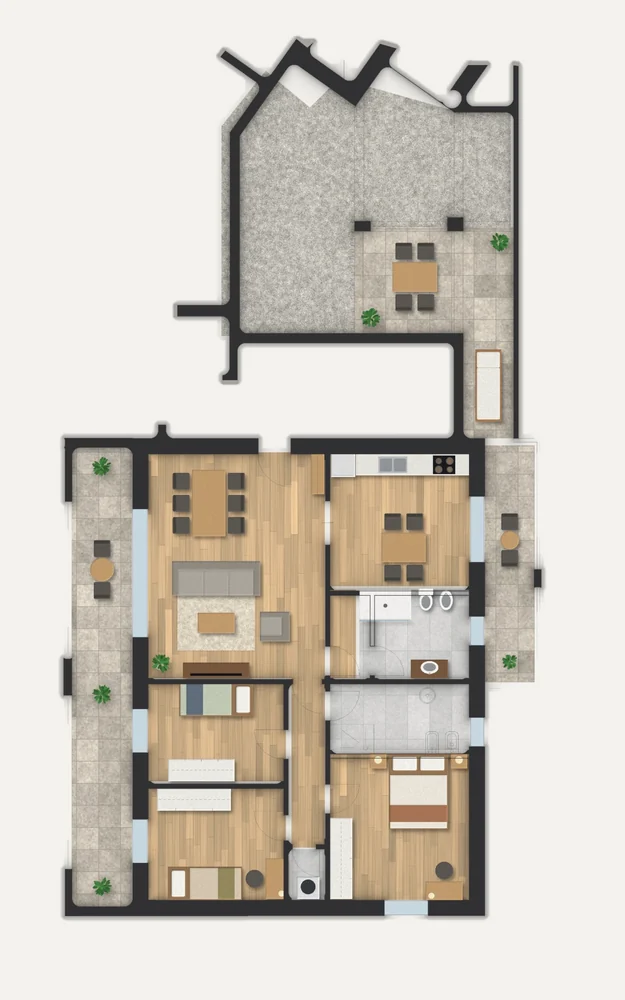
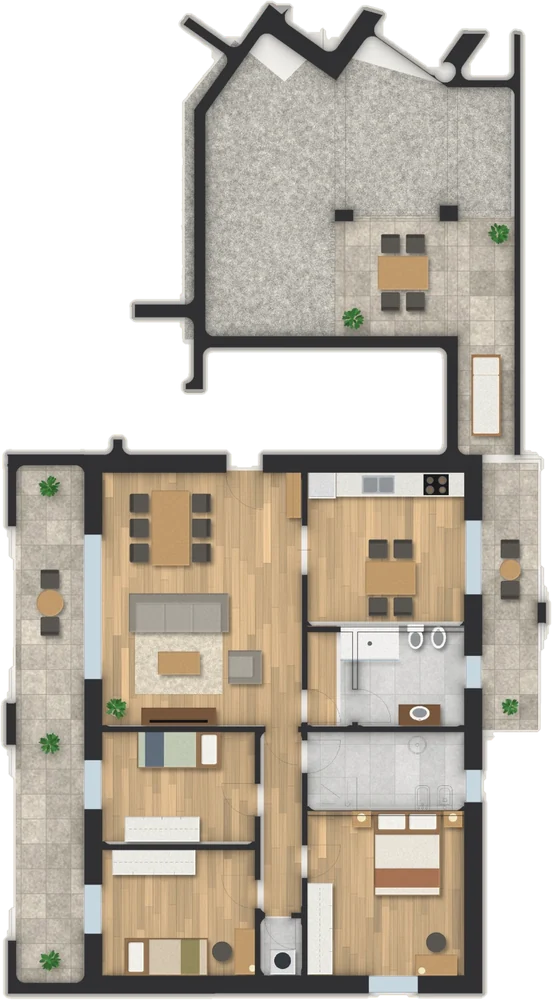
Planimetrie ritagliate su tavola tecnica scura + nuova pianta Villa C
- Pianta Villa C aggiornata (2 posti auto)
- Tutte le planimetrie senza foglio bianco: sfondo trasparente, bordo sottile color carta, ombra morbida spostata in basso
- Vista Planimetria su fondo scuro con griglia tecnica che sfuma ai bordi
- Ingresso morbido della pianta al passaggio Foto → Planimetria

Claude-Session: https://claude.ai/code/session_01R6xdRoKJ6ZxDiY1moh1f7c

diff --git a/villa-c.html b/villa-c.html
@@ -61,14 +61,22 @@ nav.scrolled{background:rgba(8,8,8,.74);backdrop-filter:blur(16px);-webkit-backd
 .slide.on img{animation:kb 7s ease-out forwards;}
 @keyframes kb{to{transform:scale(1);}}
 .plan-view{position:absolute;inset:0;display:flex;align-items:center;justify-content:center;padding:clamp(80px,12vh,130px) 6vw clamp(40px,8vh,80px);
-  background:#0a0a0a;opacity:0;pointer-events:none;transition:opacity .6s var(--e);}
+  background:radial-gradient(60% 55% at 50% 56%,rgba(157,192,170,.06),transparent 72%),#0c0c0b;opacity:0;pointer-events:none;transition:opacity .6s var(--e);}
+/* griglia da tavola tecnica, sfuma verso i bordi */
+.plan-view::before{content:'';position:absolute;inset:0;pointer-events:none;
+  background-image:linear-gradient(rgba(240,236,228,.045) 1px,transparent 1px),linear-gradient(90deg,rgba(240,236,228,.045) 1px,transparent 1px);background-size:44px 44px;background-position:center;
+  -webkit-mask-image:radial-gradient(ellipse 72% 66% at 50% 56%,#000 25%,transparent 78%);mask-image:radial-gradient(ellipse 72% 66% at 50% 56%,#000 25%,transparent 78%);}
 .ustage.show-plan .plan-view{opacity:1;pointer-events:auto;}
 .ustage.show-plan .media,.ustage.show-plan .hero-content,.ustage.show-plan .sl-ui,.ustage.show-plan .sl-dots,.ustage.show-plan .sl-count{opacity:0;pointer-events:none;}
 .plan-view{gap:clamp(14px,3vw,44px);justify-content:safe center;padding-top:clamp(140px,17vh,160px);}
-.plan-fig{height:100%;flex:0 1 auto;min-width:0;display:flex;flex-direction:column;align-items:center;gap:14px;}
+.plan-fig{position:relative;height:100%;flex:0 1 auto;min-width:0;display:flex;flex-direction:column;align-items:center;gap:14px;}
 .plan-fig a{height:calc(100% - 30px);max-width:100%;display:flex;justify-content:center;border-radius:6px;}
 .plan-fig a:focus-visible{outline:2px solid var(--accent);outline-offset:4px;}
-.plan-fig img{height:100%;width:auto;max-width:100%;object-fit:contain;filter:drop-shadow(0 22px 40px rgba(0,0,0,.6));cursor:zoom-in;}
+.plan-fig img{height:100%;width:auto;max-width:100%;object-fit:contain;cursor:zoom-in;
+  filter:drop-shadow(0 6px 8px rgba(0,0,0,.45)) drop-shadow(0 30px 38px rgba(0,0,0,.55));
+  transform:translateY(14px) scale(.97);transition:transform 1s var(--e-expo);}
+.ustage.show-plan .plan-fig img{transform:none;}
+.plan-fig:nth-child(2) img{transition-delay:.08s;}
 .plan-fig figcaption{font-size:11px;letter-spacing:.2em;text-transform:uppercase;color:var(--t2);}
 .ustage.show-plan .expand-hint{opacity:0;pointer-events:none;}
 @media(max-width:768px){.plan-view{overflow-x:auto;scroll-snap-type:x mandatory;padding-top:132px;padding-left:16px;padding-right:16px;}.plan-fig{flex:0 0 auto;max-width:100%;scroll-snap-align:center;}}
@@ -207,7 +215,7 @@ footer{background:#040404;padding:clamp(34px,5vh,52px) clamp(20px,5vw,60px);disp
 
 <header class="ustage" id="ustage">
   <div class="media" id="media"><div class="slide on" data-i="0"><img src="images/villa-c_30.webp" alt="Residenza Verdi 8, Villa C: render 1 di 20" loading="eager" decoding="async"></div><div class="slide" data-i="1"><img src="images/villa-c_1.webp" alt="Residenza Verdi 8, Villa C: render 2 di 20" loading="eager" decoding="async"></div><div class="slide" data-i="2"><img src="images/villa-c_2.webp" alt="Residenza Verdi 8, Villa C: render 3 di 20" loading="lazy" decoding="async"></div><div class="slide" data-i="3"><img src="images/villa-c_3.webp" alt="Residenza Verdi 8, Villa C: render 4 di 20" loading="lazy" decoding="async"></div><div class="slide" data-i="4"><img src="images/villa-c_4.webp" alt="Residenza Verdi 8, Villa C: render 5 di 20" loading="lazy" decoding="async"></div><div class="slide" data-i="5"><img src="images/villa-c_5.webp" alt="Residenza Verdi 8, Villa C: render 6 di 20" loading="lazy" decoding="async"></div><div class="slide" data-i="6"><img src="images/villa-c_6.webp" alt="Residenza Verdi 8, Villa C: render 7 di 20" loading="lazy" decoding="async"></div><div class="slide" data-i="7"><img src="images/villa-c_7.webp" alt="Residenza Verdi 8, Villa C: render 8 di 20" loading="lazy" decoding="async"></div><div class="slide" data-i="8"><img src="images/villa-c_8.webp" alt="Residenza Verdi 8, Villa C: render 9 di 20" loading="lazy" decoding="async"></div><div class="slide" data-i="9"><img src="images/villa-c_9.webp" alt="Residenza Verdi 8, Villa C: render 10 di 20" loading="lazy" decoding="async"></div><div class="slide" data-i="10"><img src="images/villa-c_10.webp" alt="Residenza Verdi 8, Villa C: render 11 di 20" loading="lazy" decoding="async"></div><div class="slide" data-i="11"><img src="images/villa-c_11.webp" alt="Residenza Verdi 8, Villa C: render 12 di 20" loading="lazy" decoding="async"></div><div class="slide" data-i="12"><img src="images/villa-c_12.webp" alt="Residenza Verdi 8, Villa C: render 13 di 20" loading="lazy" decoding="async"></div><div class="slide" data-i="13"><img src="images/villa-c_13.webp" alt="Residenza Verdi 8, Villa C: render 14 di 20" loading="lazy" decoding="async"></div><div class="slide" data-i="14"><img src="images/villa-c_14.webp" alt="Residenza Verdi 8, Villa C: render 15 di 20" loading="lazy" decoding="async"></div><div class="slide" data-i="15"><img src="images/villa-c_15.webp" alt="Residenza Verdi 8, Villa C: render 16 di 20" loading="lazy" decoding="async"></div><div class="slide" data-i="16"><img src="images/villa-c_16.webp" alt="Residenza Verdi 8, Villa C: render 17 di 20" loading="lazy" decoding="async"></div><div class="slide" data-i="17"><img src="images/villa-c_17.webp" alt="Residenza Verdi 8, Villa C: render 18 di 20" loading="lazy" decoding="async"></div><div class="slide" data-i="18"><img src="images/villa-c_18.webp" alt="Residenza Verdi 8, Villa C: render 19 di 20" loading="lazy" decoding="async"></div><div class="slide" data-i="19"><img src="images/villa-c_19.webp" alt="Residenza Verdi 8, Villa C: render 20 di 20" loading="lazy" decoding="async"></div></div>
-  <div class="plan-view"><figure class="plan-fig"><a href="images/pianta-villa-c.webp" target="_blank" rel="noopener" aria-label="Apri la planimetria piano terra a piena risoluzione"><img src="images/pianta-villa-c.webp" srcset="images/pianta-villa-c-1000.webp 1000w, images/pianta-villa-c.webp 941w" sizes="(max-width:768px) 90vw, 50vw" width="941" height="2000" alt="Planimetria Villa C, piano terra: soggiorno, cucina, tre camere, due bagni, giardini e posto auto" loading="lazy" decoding="async"></a><figcaption>Piano terra</figcaption></figure><figure class="plan-fig"><a href="images/pianta-villa-c-terrazzo.webp" target="_blank" rel="noopener" aria-label="Apri la planimetria terrazzo a piena risoluzione"><img src="images/pianta-villa-c-terrazzo.webp" srcset="images/pianta-villa-c-terrazzo-1000.webp 1000w, images/pianta-villa-c-terrazzo.webp 1204w" sizes="(max-width:768px) 90vw, 50vw" width="1204" height="1854" alt="Planimetria Villa C, terrazzo panoramico" loading="lazy" decoding="async"></a><figcaption>Terrazzo</figcaption></figure></div>
+  <div class="plan-view"><figure class="plan-fig"><a href="images/pianta-villa-c.webp" target="_blank" rel="noopener" aria-label="Apri la planimetria piano terra a piena risoluzione"><img src="images/pianta-villa-c.webp" srcset="images/pianta-villa-c-1000.webp 1000w, images/pianta-villa-c.webp 846w" sizes="(max-width:768px) 90vw, 50vw" width="846" height="1968" alt="Planimetria Villa C, piano terra: soggiorno, cucina, tre camere, due bagni, giardini e posto auto" loading="lazy" decoding="async"></a><figcaption>Piano terra</figcaption></figure><figure class="plan-fig"><a href="images/pianta-villa-c-terrazzo.webp" target="_blank" rel="noopener" aria-label="Apri la planimetria terrazzo a piena risoluzione"><img src="images/pianta-villa-c-terrazzo.webp" srcset="images/pianta-villa-c-terrazzo-1000.webp 1000w, images/pianta-villa-c-terrazzo.webp 961w" sizes="(max-width:768px) 90vw, 50vw" width="961" height="1539" alt="Planimetria Villa C, terrazzo panoramico" loading="lazy" decoding="async"></a><figcaption>Terrazzo</figcaption></figure></div>
   <div class="veil"></div>
 
   <div class="media-toggle" id="toggle">

diff --git a/app-a.html b/app-a.html
@@ -61,14 +61,22 @@ nav.scrolled{background:rgba(8,8,8,.74);backdrop-filter:blur(16px);-webkit-backd
 .slide.on img{animation:kb 7s ease-out forwards;}
 @keyframes kb{to{transform:scale(1);}}
 .plan-view{position:absolute;inset:0;display:flex;align-items:center;justify-content:center;padding:clamp(80px,12vh,130px) 6vw clamp(40px,8vh,80px);
-  background:#0a0a0a;opacity:0;pointer-events:none;transition:opacity .6s var(--e);}
+  background:radial-gradient(60% 55% at 50% 56%,rgba(157,192,170,.06),transparent 72%),#0c0c0b;opacity:0;pointer-events:none;transition:opacity .6s var(--e);}
+/* griglia da tavola tecnica, sfuma verso i bordi */
+.plan-view::before{content:'';position:absolute;inset:0;pointer-events:none;
+  background-image:linear-gradient(rgba(240,236,228,.045) 1px,transparent 1px),linear-gradient(90deg,rgba(240,236,228,.045) 1px,transparent 1px);background-size:44px 44px;background-position:center;
+  -webkit-mask-image:radial-gradient(ellipse 72% 66% at 50% 56%,#000 25%,transparent 78%);mask-image:radial-gradient(ellipse 72% 66% at 50% 56%,#000 25%,transparent 78%);}
 .ustage.show-plan .plan-view{opacity:1;pointer-events:auto;}
 .ustage.show-plan .media,.ustage.show-plan .hero-content,.ustage.show-plan .sl-ui,.ustage.show-plan .sl-dots,.ustage.show-plan .sl-count{opacity:0;pointer-events:none;}
 .plan-view{gap:clamp(14px,3vw,44px);justify-content:safe center;padding-top:clamp(140px,17vh,160px);}
-.plan-fig{height:100%;flex:0 1 auto;min-width:0;display:flex;flex-direction:column;align-items:center;gap:14px;}
+.plan-fig{position:relative;height:100%;flex:0 1 auto;min-width:0;display:flex;flex-direction:column;align-items:center;gap:14px;}
 .plan-fig a{height:calc(100% - 30px);max-width:100%;display:flex;justify-content:center;border-radius:6px;}
 .plan-fig a:focus-visible{outline:2px solid var(--accent);outline-offset:4px;}
-.plan-fig img{height:100%;width:auto;max-width:100%;object-fit:contain;filter:drop-shadow(0 22px 40px rgba(0,0,0,.6));cursor:zoom-in;}
+.plan-fig img{height:100%;width:auto;max-width:100%;object-fit:contain;cursor:zoom-in;
+  filter:drop-shadow(0 6px 8px rgba(0,0,0,.45)) drop-shadow(0 30px 38px rgba(0,0,0,.55));
+  transform:translateY(14px) scale(.97);transition:transform 1s var(--e-expo);}
+.ustage.show-plan .plan-fig img{transform:none;}
+.plan-fig:nth-child(2) img{transition-delay:.08s;}
 .plan-fig figcaption{font-size:11px;letter-spacing:.2em;text-transform:uppercase;color:var(--t2);}
 .ustage.show-plan .expand-hint{opacity:0;pointer-events:none;}
 @media(max-width:768px){.plan-view{overflow-x:auto;scroll-snap-type:x mandatory;padding-top:132px;padding-left:16px;padding-right:16px;}.plan-fig{flex:0 0 auto;max-width:100%;scroll-snap-align:center;}}
@@ -207,7 +215,7 @@ footer{background:#040404;padding:clamp(34px,5vh,52px) clamp(20px,5vw,60px);disp
 
 <header class="ustage" id="ustage">
   <div class="media" id="media"><div class="slide on" data-i="0"><img src="images/app-a_24.webp" alt="Residenza Verdi 8, App. A: render 1 di 20" loading="eager" decoding="async"></div><div class="slide" data-i="1"><img src="images/app-a_1.webp" alt="Residenza Verdi 8, App. A: render 2 di 20" loading="eager" decoding="async"></div><div class="slide" data-i="2"><img src="images/app-a_2.webp" alt="Residenza Verdi 8, App. A: render 3 di 20" loading="lazy" decoding="async"></div><div class="slide" data-i="3"><img src="images/app-a_3.webp" alt="Residenza Verdi 8, App. A: render 4 di 20" loading="lazy" decoding="async"></div><div class="slide" data-i="4"><img src="images/app-a_4.webp" alt="Residenza Verdi 8, App. A: render 5 di 20" loading="lazy" decoding="async"></div><div class="slide" data-i="5"><img src="images/app-a_5.webp" alt="Residenza Verdi 8, App. A: render 6 di 20" loading="lazy" decoding="async"></div><div class="slide" data-i="6"><img src="images/app-a_6.webp" alt="Residenza Verdi 8, App. A: render 7 di 20" loading="lazy" decoding="async"></div><div class="slide" data-i="7"><img src="images/app-a_7.webp" alt="Residenza Verdi 8, App. A: render 8 di 20" loading="lazy" decoding="async"></div><div class="slide" data-i="8"><img src="images/app-a_8.webp" alt="Residenza Verdi 8, App. A: render 9 di 20" loading="lazy" decoding="async"></div><div class="slide" data-i="9"><img src="images/app-a_9.webp" alt="Residenza Verdi 8, App. A: render 10 di 20" loading="lazy" decoding="async"></div><div class="slide" data-i="10"><img src="images/app-a_10.webp" alt="Residenza Verdi 8, App. A: render 11 di 20" loading="lazy" decoding="async"></div><div class="slide" data-i="11"><img src="images/app-a_11.webp" alt="Residenza Verdi 8, App. A: render 12 di 20" loading="lazy" decoding="async"></div><div class="slide" data-i="12"><img src="images/app-a_12.webp" alt="Residenza Verdi 8, App. A: render 13 di 20" loading="lazy" decoding="async"></div><div class="slide" data-i="13"><img src="images/app-a_13.webp" alt="Residenza Verdi 8, App. A: render 14 di 20" loading="lazy" decoding="async"></div><div class="slide" data-i="14"><img src="images/app-a_14.webp" alt="Residenza Verdi 8, App. A: render 15 di 20" loading="lazy" decoding="async"></div><div class="slide" data-i="15"><img src="images/app-a_15.webp" alt="Residenza Verdi 8, App. A: render 16 di 20" loading="lazy" decoding="async"></div><div class="slide" data-i="16"><img src="images/app-a_16.webp" alt="Residenza Verdi 8, App. A: render 17 di 20" loading="lazy" decoding="async"></div><div class="slide" data-i="17"><img src="images/app-a_17.webp" alt="Residenza Verdi 8, App. A: render 18 di 20" loading="lazy" decoding="async"></div><div class="slide" data-i="18"><img src="images/app-a_18.webp" alt="Residenza Verdi 8, App. A: render 19 di 20" loading="lazy" decoding="async"></div><div class="slide" data-i="19"><img src="images/app-a_19.webp" alt="Residenza Verdi 8, App. A: render 20 di 20" loading="lazy" decoding="async"></div></div>
-  <div class="plan-view"><figure class="plan-fig"><a href="images/pianta-app-a.webp" target="_blank" rel="noopener" aria-label="Apri la planimetria piano terra a piena risoluzione"><img src="images/pianta-app-a.webp" srcset="images/pianta-app-a-1000.webp 1000w, images/pianta-app-a.webp 1808w" sizes="(max-width:768px) 90vw, 50vw" width="1808" height="1972" alt="Planimetria App. A, piano terra: soggiorno, cucina abitabile, tre camere, due bagni, giardino privato e due posti auto" loading="lazy" decoding="async"></a><figcaption>Piano terra</figcaption></figure></div>
+  <div class="plan-view"><figure class="plan-fig"><a href="images/pianta-app-a.webp" target="_blank" rel="noopener" aria-label="Apri la planimetria piano terra a piena risoluzione"><img src="images/pianta-app-a.webp" srcset="images/pianta-app-a-1000.webp 1000w, images/pianta-app-a.webp 1565w" sizes="(max-width:768px) 90vw, 50vw" width="1565" height="1735" alt="Planimetria App. A, piano terra: soggiorno, cucina abitabile, tre camere, due bagni, giardino privato e due posti auto" loading="lazy" decoding="async"></a><figcaption>Piano terra</figcaption></figure></div>
   <div class="veil"></div>
 
   <div class="media-toggle" id="toggle">

diff --git a/attico.html b/attico.html
@@ -61,14 +61,22 @@ nav.scrolled{background:rgba(8,8,8,.74);backdrop-filter:blur(16px);-webkit-backd
 .slide.on img{animation:kb 7s ease-out forwards;}
 @keyframes kb{to{transform:scale(1);}}
 .plan-view{position:absolute;inset:0;display:flex;align-items:center;justify-content:center;padding:clamp(80px,12vh,130px) 6vw clamp(40px,8vh,80px);
-  background:#0a0a0a;opacity:0;pointer-events:none;transition:opacity .6s var(--e);}
+  background:radial-gradient(60% 55% at 50% 56%,rgba(157,192,170,.06),transparent 72%),#0c0c0b;opacity:0;pointer-events:none;transition:opacity .6s var(--e);}
+/* griglia da tavola tecnica, sfuma verso i bordi */
+.plan-view::before{content:'';position:absolute;inset:0;pointer-events:none;
+  background-image:linear-gradient(rgba(240,236,228,.045) 1px,transparent 1px),linear-gradient(90deg,rgba(240,236,228,.045) 1px,transparent 1px);background-size:44px 44px;background-position:center;
+  -webkit-mask-image:radial-gradient(ellipse 72% 66% at 50% 56%,#000 25%,transparent 78%);mask-image:radial-gradient(ellipse 72% 66% at 50% 56%,#000 25%,transparent 78%);}
 .ustage.show-plan .plan-view{opacity:1;pointer-events:auto;}
 .ustage.show-plan .media,.ustage.show-plan .hero-content,.ustage.show-plan .sl-ui,.ustage.show-plan .sl-dots,.ustage.show-plan .sl-count{opacity:0;pointer-events:none;}
 .plan-view{gap:clamp(14px,3vw,44px);justify-content:safe center;padding-top:clamp(140px,17vh,160px);}
-.plan-fig{height:100%;flex:0 1 auto;min-width:0;display:flex;flex-direction:column;align-items:center;gap:14px;}
+.plan-fig{position:relative;height:100%;flex:0 1 auto;min-width:0;display:flex;flex-direction:column;align-items:center;gap:14px;}
 .plan-fig a{height:calc(100% - 30px);max-width:100%;display:flex;justify-content:center;border-radius:6px;}
 .plan-fig a:focus-visible{outline:2px solid var(--accent);outline-offset:4px;}
-.plan-fig img{height:100%;width:auto;max-width:100%;object-fit:contain;filter:drop-shadow(0 22px 40px rgba(0,0,0,.6));cursor:zoom-in;}
+.plan-fig img{height:100%;width:auto;max-width:100%;object-fit:contain;cursor:zoom-in;
+  filter:drop-shadow(0 6px 8px rgba(0,0,0,.45)) drop-shadow(0 30px 38px rgba(0,0,0,.55));
+  transform:translateY(14px) scale(.97);transition:transform 1s var(--e-expo);}
+.ustage.show-plan .plan-fig img{transform:none;}
+.plan-fig:nth-child(2) img{transition-delay:.08s;}
 .plan-fig figcaption{font-size:11px;letter-spacing:.2em;text-transform:uppercase;color:var(--t2);}
 .ustage.show-plan .expand-hint{opacity:0;pointer-events:none;}
 @media(max-width:768px){.plan-view{overflow-x:auto;scroll-snap-type:x mandatory;padding-top:132px;padding-left:16px;padding-right:16px;}.plan-fig{flex:0 0 auto;max-width:100%;scroll-snap-align:center;}}
@@ -207,7 +215,7 @@ footer{background:#040404;padding:clamp(34px,5vh,52px) clamp(20px,5vw,60px);disp
 
 <header class="ustage" id="ustage">
   <div class="media" id="media"><div class="slide on" data-i="0"><img src="images/attico_28.webp" alt="Residenza Verdi 8, Attico: render 1 di 20" loading="eager" decoding="async"></div><div class="slide" data-i="1"><img src="images/attico_1.webp" alt="Residenza Verdi 8, Attico: render 2 di 20" loading="eager" decoding="async"></div><div class="slide" data-i="2"><img src="images/attico_2.webp" alt="Residenza Verdi 8, Attico: render 3 di 20" loading="lazy" decoding="async"></div><div class="slide" data-i="3"><img src="images/attico_3.webp" alt="Residenza Verdi 8, Attico: render 4 di 20" loading="lazy" decoding="async"></div><div class="slide" data-i="4"><img src="images/attico_4.webp" alt="Residenza Verdi 8, Attico: render 5 di 20" loading="lazy" decoding="async"></div><div class="slide" data-i="5"><img src="images/attico_5.webp" alt="Residenza Verdi 8, Attico: render 6 di 20" loading="lazy" decoding="async"></div><div class="slide" data-i="6"><img src="images/attico_6.webp" alt="Residenza Verdi 8, Attico: render 7 di 20" loading="lazy" decoding="async"></div><div class="slide" data-i="7"><img src="images/attico_7.webp" alt="Residenza Verdi 8, Attico: render 8 di 20" loading="lazy" decoding="async"></div><div class="slide" data-i="8"><img src="images/attico_8.webp" alt="Residenza Verdi 8, Attico: render 9 di 20" loading="lazy" decoding="async"></div><div class="slide" data-i="9"><img src="images/attico_9.webp" alt="Residenza Verdi 8, Attico: render 10 di 20" loading="lazy" decoding="async"></div><div class="slide" data-i="10"><img src="images/attico_10.webp" alt="Residenza Verdi 8, Attico: render 11 di 20" loading="lazy" decoding="async"></div><div class="slide" data-i="11"><img src="images/attico_11.webp" alt="Residenza Verdi 8, Attico: render 12 di 20" loading="lazy" decoding="async"></div><div class="slide" data-i="12"><img src="images/attico_12.webp" alt="Residenza Verdi 8, Attico: render 13 di 20" loading="lazy" decoding="async"></div><div class="slide" data-i="13"><img src="images/attico_13.webp" alt="Residenza Verdi 8, Attico: render 14 di 20" loading="lazy" decoding="async"></div><div class="slide" data-i="14"><img src="images/attico_14.webp" alt="Residenza Verdi 8, Attico: render 15 di 20" loading="lazy" decoding="async"></div><div class="slide" data-i="15"><img src="images/attico_15.webp" alt="Residenza Verdi 8, Attico: render 16 di 20" loading="lazy" decoding="async"></div><div class="slide" data-i="16"><img src="images/attico_16.webp" alt="Residenza Verdi 8, Attico: render 17 di 20" loading="lazy" decoding="async"></div><div class="slide" data-i="17"><img src="images/attico_17.webp" alt="Residenza Verdi 8, Attico: render 18 di 20" loading="lazy" decoding="async"></div><div class="slide" data-i="18"><img src="images/attico_18.webp" alt="Residenza Verdi 8, Attico: render 19 di 20" loading="lazy" decoding="async"></div><div class="slide" data-i="19"><img src="images/attico_19.webp" alt="Residenza Verdi 8, Attico: render 20 di 20" loading="lazy" decoding="async"></div></div>
-  <div class="plan-view"><figure class="plan-fig"><a href="images/pianta-attico.webp" target="_blank" rel="noopener" aria-label="Apri la planimetria piano secondo a piena risoluzione"><img src="images/pianta-attico.webp" srcset="images/pianta-attico-1000.webp 1000w, images/pianta-attico.webp 1865w" sizes="(max-width:768px) 90vw, 50vw" width="1865" height="1975" alt="Planimetria Attico, piano secondo: soggiorno, cucina abitabile, tre camere, due bagni e balconi" loading="lazy" decoding="async"></a><figcaption>Piano secondo</figcaption></figure></div>
+  <div class="plan-view"><figure class="plan-fig"><a href="images/pianta-attico.webp" target="_blank" rel="noopener" aria-label="Apri la planimetria piano secondo a piena risoluzione"><img src="images/pianta-attico.webp" srcset="images/pianta-attico-1000.webp 1000w, images/pianta-attico.webp 1542w" sizes="(max-width:768px) 90vw, 50vw" width="1542" height="1652" alt="Planimetria Attico, piano secondo: soggiorno, cucina abitabile, tre camere, due bagni e balconi" loading="lazy" decoding="async"></a><figcaption>Piano secondo</figcaption></figure></div>
   <div class="veil"></div>
 
   <div class="media-toggle" id="toggle">

diff --git a/app-b.html b/app-b.html
@@ -61,14 +61,22 @@ nav.scrolled{background:rgba(8,8,8,.74);backdrop-filter:blur(16px);-webkit-backd
 .slide.on img{animation:kb 7s ease-out forwards;}
 @keyframes kb{to{transform:scale(1);}}
 .plan-view{position:absolute;inset:0;display:flex;align-items:center;justify-content:center;padding:clamp(80px,12vh,130px) 6vw clamp(40px,8vh,80px);
-  background:#0a0a0a;opacity:0;pointer-events:none;transition:opacity .6s var(--e);}
+  background:radial-gradient(60% 55% at 50% 56%,rgba(157,192,170,.06),transparent 72%),#0c0c0b;opacity:0;pointer-events:none;transition:opacity .6s var(--e);}
+/* griglia da tavola tecnica, sfuma verso i bordi */
+.plan-view::before{content:'';position:absolute;inset:0;pointer-events:none;
+  background-image:linear-gradient(rgba(240,236,228,.045) 1px,transparent 1px),linear-gradient(90deg,rgba(240,236,228,.045) 1px,transparent 1px);background-size:44px 44px;background-position:center;
+  -webkit-mask-image:radial-gradient(ellipse 72% 66% at 50% 56%,#000 25%,transparent 78%);mask-image:radial-gradient(ellipse 72% 66% at 50% 56%,#000 25%,transparent 78%);}
 .ustage.show-plan .plan-view{opacity:1;pointer-events:auto;}
 .ustage.show-plan .media,.ustage.show-plan .hero-content,.ustage.show-plan .sl-ui,.ustage.show-plan .sl-dots,.ustage.show-plan .sl-count{opacity:0;pointer-events:none;}
 .plan-view{gap:clamp(14px,3vw,44px);justify-content:safe center;padding-top:clamp(140px,17vh,160px);}
-.plan-fig{height:100%;flex:0 1 auto;min-width:0;display:flex;flex-direction:column;align-items:center;gap:14px;}
+.plan-fig{position:relative;height:100%;flex:0 1 auto;min-width:0;display:flex;flex-direction:column;align-items:center;gap:14px;}
 .plan-fig a{height:calc(100% - 30px);max-width:100%;display:flex;justify-content:center;border-radius:6px;}
 .plan-fig a:focus-visible{outline:2px solid var(--accent);outline-offset:4px;}
-.plan-fig img{height:100%;width:auto;max-width:100%;object-fit:contain;filter:drop-shadow(0 22px 40px rgba(0,0,0,.6));cursor:zoom-in;}
+.plan-fig img{height:100%;width:auto;max-width:100%;object-fit:contain;cursor:zoom-in;
+  filter:drop-shadow(0 6px 8px rgba(0,0,0,.45)) drop-shadow(0 30px 38px rgba(0,0,0,.55));
+  transform:translateY(14px) scale(.97);transition:transform 1s var(--e-expo);}
+.ustage.show-plan .plan-fig img{transform:none;}
+.plan-fig:nth-child(2) img{transition-delay:.08s;}
 .plan-fig figcaption{font-size:11px;letter-spacing:.2em;text-transform:uppercase;color:var(--t2);}
 .ustage.show-plan .expand-hint{opacity:0;pointer-events:none;}
 @media(max-width:768px){.plan-view{overflow-x:auto;scroll-snap-type:x mandatory;padding-top:132px;padding-left:16px;padding-right:16px;}.plan-fig{flex:0 0 auto;max-width:100%;scroll-snap-align:center;}}
@@ -207,7 +215,7 @@ footer{background:#040404;padding:clamp(34px,5vh,52px) clamp(20px,5vw,60px);disp
 
 <header class="ustage" id="ustage">
   <div class="media" id="media"><div class="slide on" data-i="0"><img src="images/app-b_26.webp" alt="Residenza Verdi 8, App. B: render 1 di 20" loading="eager" decoding="async"></div><div class="slide" data-i="1"><img src="images/app-b_1.webp" alt="Residenza Verdi 8, App. B: render 2 di 20" loading="eager" decoding="async"></div><div class="slide" data-i="2"><img src="images/app-b_2.webp" alt="Residenza Verdi 8, App. B: render 3 di 20" loading="lazy" decoding="async"></div><div class="slide" data-i="3"><img src="images/app-b_3.webp" alt="Residenza Verdi 8, App. B: render 4 di 20" loading="lazy" decoding="async"></div><div class="slide" data-i="4"><img src="images/app-b_4.webp" alt="Residenza Verdi 8, App. B: render 5 di 20" loading="lazy" decoding="async"></div><div class="slide" data-i="5"><img src="images/app-b_5.webp" alt="Residenza Verdi 8, App. B: render 6 di 20" loading="lazy" decoding="async"></div><div class="slide" data-i="6"><img src="images/app-b_6.webp" alt="Residenza Verdi 8, App. B: render 7 di 20" loading="lazy" decoding="async"></div><div class="slide" data-i="7"><img src="images/app-b_7.webp" alt="Residenza Verdi 8, App. B: render 8 di 20" loading="lazy" decoding="async"></div><div class="slide" data-i="8"><img src="images/app-b_8.webp" alt="Residenza Verdi 8, App. B: render 9 di 20" loading="lazy" decoding="async"></div><div class="slide" data-i="9"><img src="images/app-b_9.webp" alt="Residenza Verdi 8, App. B: render 10 di 20" loading="lazy" decoding="async"></div><div class="slide" data-i="10"><img src="images/app-b_10.webp" alt="Residenza Verdi 8, App. B: render 11 di 20" loading="lazy" decoding="async"></div><div class="slide" data-i="11"><img src="images/app-b_11.webp" alt="Residenza Verdi 8, App. B: render 12 di 20" loading="lazy" decoding="async"></div><div class="slide" data-i="12"><img src="images/app-b_12.webp" alt="Residenza Verdi 8, App. B: render 13 di 20" loading="lazy" decoding="async"></div><div class="slide" data-i="13"><img src="images/app-b_13.webp" alt="Residenza Verdi 8, App. B: render 14 di 20" loading="lazy" decoding="async"></div><div class="slide" data-i="14"><img src="images/app-b_14.webp" alt="Residenza Verdi 8, App. B: render 15 di 20" loading="lazy" decoding="async"></div><div class="slide" data-i="15"><img src="images/app-b_15.webp" alt="Residenza Verdi 8, App. B: render 16 di 20" loading="lazy" decoding="async"></div><div class="slide" data-i="16"><img src="images/app-b_16.webp" alt="Residenza Verdi 8, App. B: render 17 di 20" loading="lazy" decoding="async"></div><div class="slide" data-i="17"><img src="images/app-b_17.webp" alt="Residenza Verdi 8, App. B: render 18 di 20" loading="lazy" decoding="async"></div><div class="slide" data-i="18"><img src="images/app-b_18.webp" alt="Residenza Verdi 8, App. B: render 19 di 20" loading="lazy" decoding="async"></div><div class="slide" data-i="19"><img src="images/app-b_19.webp" alt="Residenza Verdi 8, App. B: render 20 di 20" loading="lazy" decoding="async"></div></div>
-  <div class="plan-view"><figure class="plan-fig"><a href="images/pianta-app-b.webp" target="_blank" rel="noopener" aria-label="Apri la planimetria piano primo a piena risoluzione"><img src="images/pianta-app-b.webp" srcset="images/pianta-app-b-1000.webp 1000w, images/pianta-app-b.webp 1251w" sizes="(max-width:768px) 90vw, 50vw" width="1251" height="2000" alt="Planimetria App. B, piano primo: soggiorno, cucina abitabile, tre camere, due bagni, balconi e terrazzo" loading="lazy" decoding="async"></a><figcaption>Piano primo</figcaption></figure></div>
+  <div class="plan-view"><figure class="plan-fig"><a href="images/pianta-app-b.webp" target="_blank" rel="noopener" aria-label="Apri la planimetria piano primo a piena risoluzione"><img src="images/pianta-app-b.webp" srcset="images/pianta-app-b-1000.webp 1000w, images/pianta-app-b.webp 1031w" sizes="(max-width:768px) 90vw, 50vw" width="1031" height="1868" alt="Planimetria App. B, piano primo: soggiorno, cucina abitabile, tre camere, due bagni, balconi e terrazzo" loading="lazy" decoding="async"></a><figcaption>Piano primo</figcaption></figure></div>
   <div class="veil"></div>
 
   <div class="media-toggle" id="toggle">
